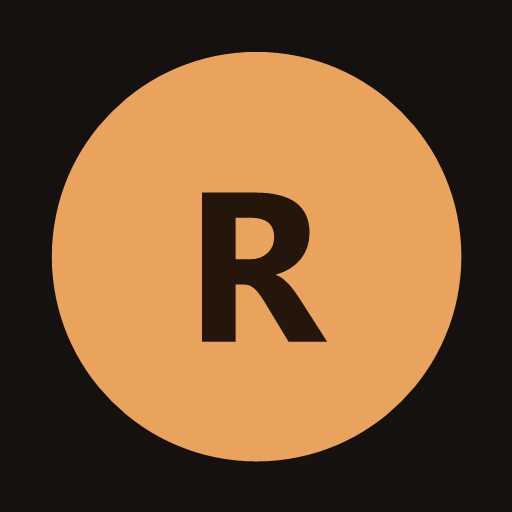
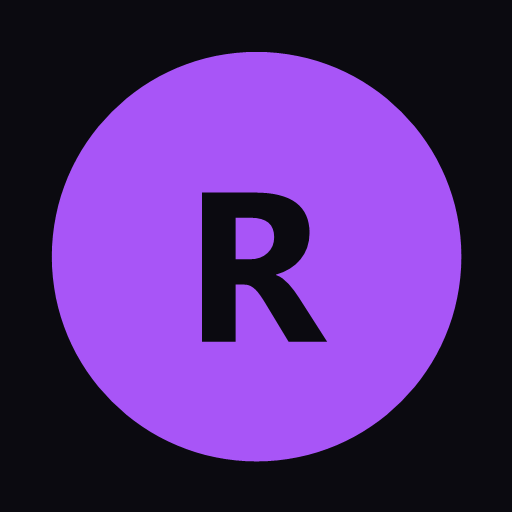
Tema violeta

diff --git a/styles.css b/styles.css
@@ -1,14 +1,21 @@
 :root {
-  --fondo: #15110e;
-  --panel: #211a15;
-  --panel-2: #2d231b;
-  --borde: #3d3027;
-  --texto: #f5ede5;
-  --suave: #b8a898;
-  --acento: #e9a35c;
-  --acento-texto: #24160a;
-  --verde: #74d39b;
-  --rojo: #f47f73;
+  --fondo: #0B0A10;
+  --panel: #14111C;
+  --panel-2: #1D1830;
+  --borde: #3B2A5C;
+  --texto: #FFFFFF;
+  --suave: #C4A7F5;
+  --acento: #A855F7;
+  --acento-texto: #0B0A10;
+  --verde: #4ADE60;
+  --rojo: #F0507A;
+  --sobre-color: #0B0A10;      /* texto sobre verde, rojo o violeta */
+  --nota-fondo: #1E1533;       /* franja de estado y etiqueta "sin enviar" */
+  --nota-borde: #3B2A5C;
+  --nota-texto: #C4A7F5;
+  --aviso-fondo: #FFFFFF;
+  --aviso-texto: #0B0A10;
+  --sombra: rgba(0, 0, 0, 0.6);
   --radio: 14px;
 }
 
@@ -76,7 +83,7 @@ button, input { font: inherit; color: inherit; }
 .enlace {
   background: none;
   border: 0;
-  color: var(--acento);
+  color: var(--suave);
   padding: 12px 4px;
   text-decoration: underline;
   cursor: pointer;
@@ -95,8 +102,8 @@ button, input { font: inherit; color: inherit; }
   color: var(--acento-texto);
 }
 .grupo.tipo .boton { min-height: 60px; font-size: 1.1rem; }
-.grupo.tipo .boton[data-valor="Ingreso"][aria-pressed="true"] { background: var(--verde); border-color: var(--verde); color: #0d2417; }
-.grupo.tipo .boton[data-valor="Egreso"][aria-pressed="true"] { background: var(--rojo); border-color: var(--rojo); color: #2b0d0a; }
+.grupo.tipo .boton[data-valor="Ingreso"][aria-pressed="true"] { background: var(--verde); border-color: var(--verde); color: var(--sobre-color); }
+.grupo.tipo .boton[data-valor="Egreso"][aria-pressed="true"] { background: var(--rojo); border-color: var(--rojo); color: var(--sobre-color); }
 
 /* Campos ------------------------------------------------------------------ */
 
@@ -114,7 +121,7 @@ input[type="text"], input[type="password"], input[type="date"], input[type="sear
   font-size: 17px; /* 16px o más: iOS no hace zoom al enfocar */
   appearance: none;
 }
-input::placeholder { color: #8a7b6d; }
+input::placeholder { color: var(--suave); opacity: 1; }
 input[type="date"] { color-scheme: dark; }
 
 .contador { display: grid; grid-template-columns: 64px 1fr 64px; gap: 8px; }
@@ -159,9 +166,9 @@ input[type="date"] { color-scheme: dark; }
   margin-bottom: 12px;
   padding: 10px 14px;
   border-radius: var(--radio);
-  background: #3a2c14;
-  border: 1px solid #5d4720;
-  color: #f3d9a4;
+  background: var(--nota-fondo);
+  border: 1px solid var(--nota-borde);
+  color: var(--nota-texto);
   font-size: 0.95rem;
 }
 
@@ -188,6 +195,10 @@ input[type="date"] { color-scheme: dark; }
 .historial { margin-top: 28px; }
 .historial input[type="search"] { margin-top: 10px; }
 .grupo.tres .boton { min-height: 46px; }
+#filtros .boton[data-valor="Ingresos"] { color: var(--verde); }
+#filtros .boton[data-valor="Egresos"] { color: var(--rojo); }
+#filtros .boton[data-valor="Ingresos"][aria-pressed="true"] { background: var(--verde); border-color: var(--verde); color: var(--sobre-color); }
+#filtros .boton[data-valor="Egresos"][aria-pressed="true"] { background: var(--rojo); border-color: var(--rojo); color: var(--sobre-color); }
 
 #lista { list-style: none; margin: 12px 0 0; padding: 0; }
 #lista li {
@@ -208,8 +219,8 @@ input[type="date"] { color-scheme: dark; }
   margin-left: 6px;
   padding: 1px 8px;
   border-radius: 999px;
-  background: #3a2c14;
-  color: #f3d9a4;
+  background: var(--nota-fondo);
+  color: var(--nota-texto);
   font-size: 0.72rem;
   font-weight: 600;
   vertical-align: middle;
@@ -234,13 +245,13 @@ input[type="date"] { color-scheme: dark; }
   margin: 0 auto;
   padding: 14px 16px;
   border-radius: var(--radio);
-  background: #f5ede5;
-  color: #1c140e;
+  background: var(--aviso-fondo);
+  color: var(--aviso-texto);
   font-weight: 600;
-  box-shadow: 0 8px 30px rgba(0, 0, 0, 0.5);
+  box-shadow: 0 8px 30px var(--sombra);
   z-index: 10;
 }
-.aviso.malo { background: var(--rojo); color: #2b0d0a; }
+.aviso.malo { background: var(--rojo); color: var(--sobre-color); }
 
 @media (prefers-reduced-motion: reduce) {
   .boton:active { transform: none; }

diff --git a/index.html b/index.html
@@ -5,7 +5,7 @@
   <meta name="viewport" content="width=device-width, initial-scale=1, viewport-fit=cover">
   <title>Roquitas</title>
   <meta name="description" content="Movimientos de Roquitas">
-  <meta name="theme-color" content="#15110e">
+  <meta name="theme-color" content="#0B0A10">
   <meta name="color-scheme" content="dark">
   <link rel="manifest" href="manifest.webmanifest">
   <link rel="icon" href="icons/icon-192.png">

diff --git a/sw.js b/sw.js
@@ -3,7 +3,7 @@
 //
 // Al cambiar cualquier archivo de la app, subí este número para que los
 // celulares tomen la versión nueva.
-const CACHE = 'roquitas-v1';
+const CACHE = 'roquitas-v2';
 
 const ARCHIVOS = [
   './',
